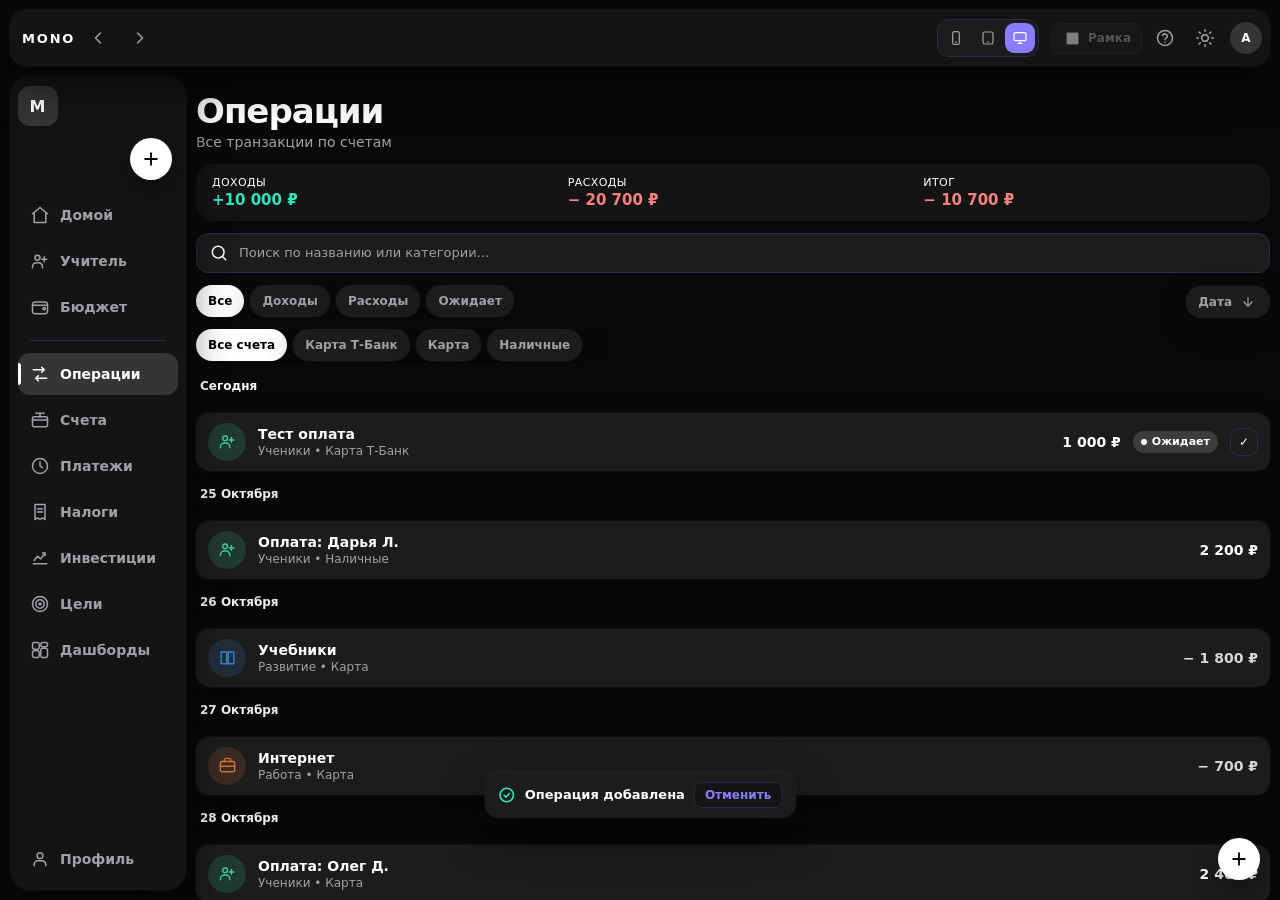
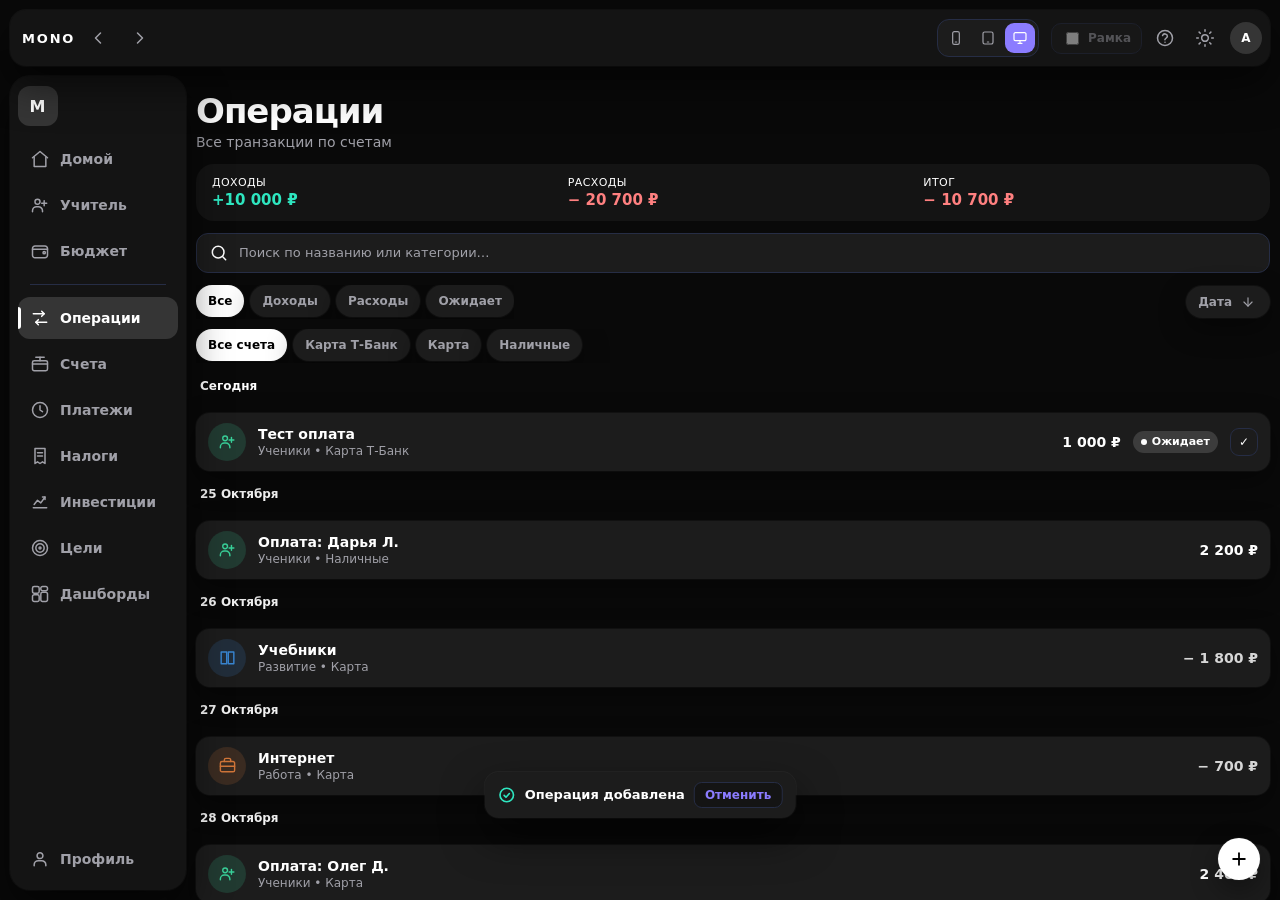
Этап 14a-fix2: публикация фиксов 14a (snapshot-коммит не попал в PR#19) + удаление rail-FAB '+' из тулбара

diff --git a/src/js/app.js b/src/js/app.js
@@ -434,30 +434,9 @@
     fab?.setAttribute("aria-expanded", open ? "true" : "false");
     fan?.setAttribute("aria-hidden", open ? "false" : "true");
     wrap.querySelectorAll(".fan-item").forEach((b) => (b.tabIndex = open ? 0 : -1));
-    if (open && fan?.classList.contains("fan--rail")) positionRailFan(fan, fab);
   }
 
-  /* рейловый веер: выносим за overflow:hidden тулбара и расставляем круги справа дугой.
-     Этап 10: позиция пересчитывается после окончания CSS-перехода ширины рейла
-     (transitionend), иначе веер «прилипает» к сжатому рейлу при hover-раскрытии. */
-  let railFanTimer = null;
-  function positionRailFan(fan, fab) {
-    if (!fab) return;
-    const place = () => {
-      const r = fab.getBoundingClientRect();
-      fan.style.top = r.top + r.height / 2 + "px";
-      fan.style.left = r.right + 8 + "px";
-      fan.querySelectorAll(".fan-item").forEach((it, i) => {
-        it.style.setProperty("--rx", (i % 2) * 46 + "px");
-        it.style.setProperty("--ry", Math.floor(i / 2) * 46 + "px");
-      });
-    };
-    place();
-    clearTimeout(railFanTimer);
-    // страховка: transitionend может не прийти (reduced-motion, мгновенная смена класса)
-    railFanTimer = setTimeout(place, 320);
-    toolbar.addEventListener("transitionend", place, { once: true });
-  }
+  /* Этап 14a-fix2: rail-FAB удалён (дублировал нижний FAB) — positionRailFan больше не нужен */
 
   function closeAllFans() {
     if (!document.body.classList.contains("fan-open")) return;
@@ -615,11 +594,7 @@
     }
     if (name === "close-modal") return closeForm();
     if (name === "more") { isDesktopLayout() ? openFan(document.querySelector(".desktop-fab") || fabWraps[0]) : openSheet(); return; }
-    if (name === "fan-toggle") {
-      const w = document.getElementById("railFab");
-      if (w) toggleFan(w); // setFanState уже ставит aria-expanded
-      return;
-    }
+    /* fan-toggle больше не нужен: rail-FAB удалён (дублировал нижний FAB, Этап 14a-fix2) */
     if (name === "frame-exit") { setFrame(false); return; }
     if (name === "reset-demo") {
       const prev = snapshot();

diff --git a/index.html b/index.html
@@ -78,27 +78,6 @@
     <aside class="toolbar" id="toolbar" aria-label="Боковая навигация">
       <div class="rail-logo">M</div>
 
-      <!-- FAB-веер в рейле: быстрый доступ к действиям на десктопе/планшете (Этап 8) -->
-      <div class="fab-wrap rail-fab" id="railFab" data-fab-wrap>
-        <div class="fan fan--rail" id="railFan" data-fan aria-hidden="true">
-          <button class="fan-item" data-quick="lesson" aria-label="Запланировать занятие" title="Запланировать занятие" style="--tx: 46px; --ty: -4px; --d: 0ms">
-            <span data-icon="calendar"></span><span>Занятие</span>
-          </button>
-          <button class="fan-item" data-quick="student" aria-label="Добавить ученика" title="Добавить ученика" style="--tx: 46px; --ty: -50px; --d: 35ms">
-            <span data-icon="userPlus"></span><span>Ученик</span>
-          </button>
-          <button class="fan-item" data-quick="transaction" aria-label="Новая операция" title="Новая операция" style="--tx: 46px; --ty: -96px; --d: 70ms">
-            <span data-icon="card"></span><span>Операция</span>
-          </button>
-          <button class="fan-item" data-quick="statement" aria-label="Загрузить выписку" title="Загрузить выписку" style="--tx: 46px; --ty: -142px; --d: 105ms">
-            <span data-icon="upload"></span><span>Выписка</span>
-          </button>
-        </div>
-        <button class="fab fab--sm" data-action="fan-toggle" aria-expanded="false" aria-label="Быстрые действия в рейле">
-          <span data-icon="plus"></span>
-        </button>
-      </div>
-
       <nav class="toolbar-nav">
         <button class="tool-item is-active" data-route="home" aria-current="page">
           <span data-icon="home"></span>

diff --git a/src/css/components.css b/src/css/components.css
@@ -449,33 +449,6 @@ body.sheet-open { overflow: hidden; }
    ЭТАП 8 — rail-FAB, рамка устройства (dev-frame), backdrop-фикс
    ============================================================ */
 
-/* ---- FAB в рейле (rail): кнопка + компактные круги-подсказки справа ---- */
-.rail-fab {
-  --rf-size: 40px;
-  width: var(--rf-size);
-  height: var(--rf-size);
-  margin: 0 auto 10px;
-}
-.app.rail-expanded .rail-fab { margin: 0 6px 10px auto; }
-.fab--sm { width: var(--rf-size, 40px); height: var(--rf-size, 40px); }
-.fab--sm svg { width: 18px; height: 18px; }
-.fan--rail { position: fixed; z-index: 130; pointer-events: none; }
-.fan--rail .fan-item {
-  /* переопределяем дефолты layout-base (--tx/--ty из inline задают дугу вверх — для рейла не годится) */
-  right: auto; bottom: auto; top: 0; left: 0;
-  min-width: 0; padding: 0;
-  width: var(--pill-h); height: var(--pill-h);
-  border-radius: 50%;
-  justify-content: center;
-  transform-origin: 50% 50%;
-}
-.fan--rail .fan-item span:last-child { display: none; } /* только иконка; подпись — title/aria */
-.fan--rail .fan-item [data-icon], .fan--rail .fan-item svg { width: 17px; height: 17px; }
-body.fan-open .fan--rail .fan-item {
-  transform: translate(var(--rx), var(--ry)) scale(1);
-}
-.rail-fan-pos { position: absolute; opacity: 0; pointer-events: none; } /* якорь для расчёта координат */
-
 /* ---- переключатель «Рамка» в шапке ---- */
 .frame-toggle {
   display: inline-flex; align-items: center; gap: 6px;

diff --git a/src/css/layout-base.css b/src/css/layout-base.css
@@ -686,11 +686,6 @@
       gap: 4px;
     }
 
-    /* Этап 10b: тулбар теперь fixed на всю высоту — FAB-веер прижимаем к низу рейла */
-    @media (min-width: 768px) {
-      .rail-fab { margin-top: auto; }
-    }
-
     .tool-item {
       position: relative;
       width: 100%;

diff --git a/docs/READMY_DEV.md b/docs/READMY_DEV.md
@@ -118,3 +118,9 @@ Smoke: заменён устаревший селектор .progress → .budge
   3. CSS: .list .row position:relative + mini-btn z-index:2 — клики по ✓ не тонут в row-link.
   4. A11y: Enter/Space на [data-go-route][tabindex] эмулирует клик (клавиатурная навигация списков).
 - TODO дальше: перенести audit.py в docs и добавить в CI; группировка planned (сегодня/неделя/просрочены); дашборды D1/D2; stagger-анимации; safe-area полировка.
+
+## Этап 14a-fix2 (публикация аудита глобальных кнопок)
+- **Проблема**: пользователь не видел результатов 14a на сайте. Причина: фиксы 14a попали в snapshot-коммит платформы (6fda5e3), но PR #19 их не включал — на Pages уехал только docs/global-audit.py без самих правок app.js/components.css.
+- **Итог аудита** (global-audit.py + livecheck): все глобальные кнопки работают; удалён rail-FAB «+» из боковой панели (index.html, app.js setFanState/positionRailFan/fan-toggle, components.css блок .rail-fab/.fan--rail, layout-base.css @media .rail-fab) — по требованию пользователя «+» только справа внизу.
+- Проверено локально: global-audit AUDIT OK, SMOKE OK, UNDO TEST OK.
+- Уроки: после каждого захода сверять diff HEAD vs origin/main ПЕРЕД созданием PR; platform snapshot-коммиты (сообщения вида "task snapshot ...") НЕ включать в ветку PR — брать только свои коммиты (git cherry-pick конкретного sha).
